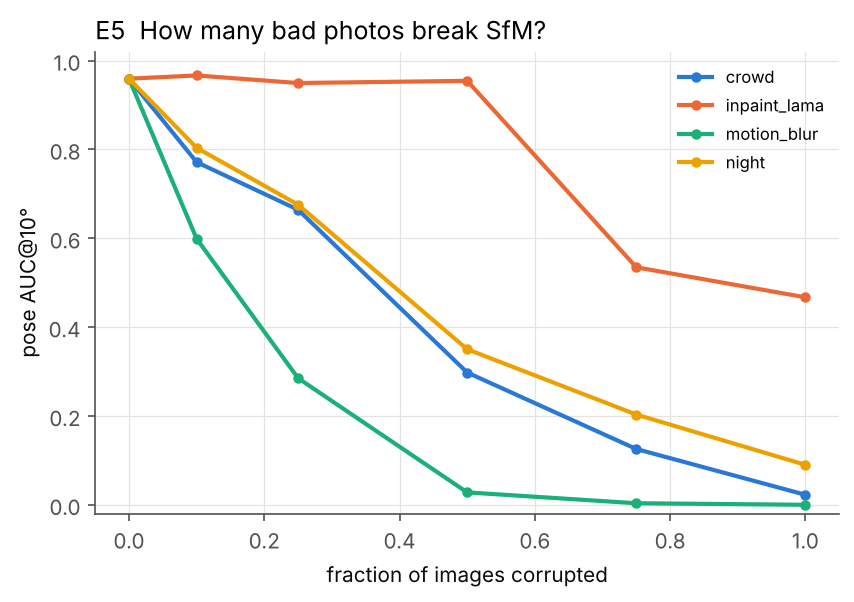
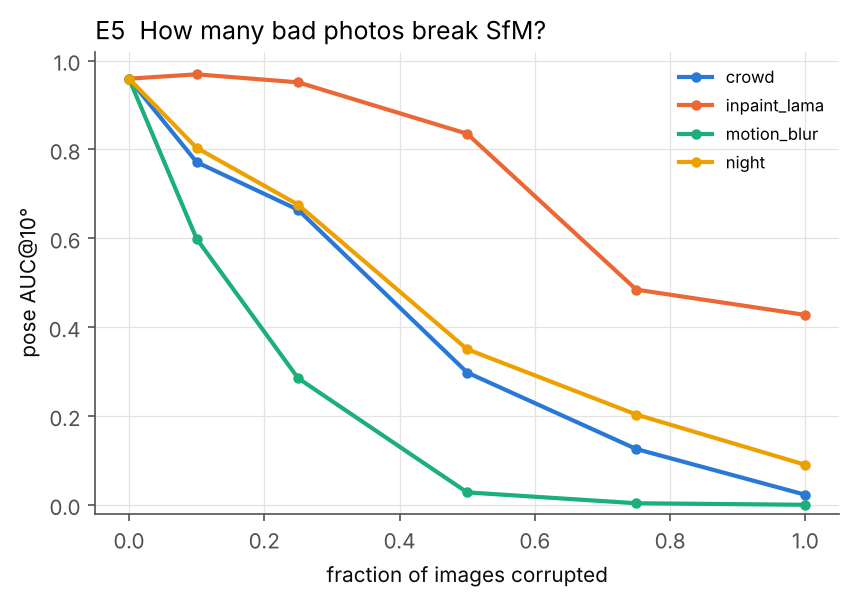
E5 LaMa contamination complete
Claude-Session: https://claude.ai/code/session_01DwFUuxyVwkhujN2CBgQS9g

diff --git a/results/summary.md b/results/summary.md
@@ -135,11 +135,11 @@ Metric: pose AUC@10° over all input image pairs (unregistered = failure) and re
 | crowd | 0.500 | 6 | 0.298 [0.16, 0.42] | 0.859 [0.73, 0.97] |
 | crowd | 0.750 | 6 | 0.126 [0.07, 0.18] | 0.934 [0.89, 0.97] |
 | crowd | 1.000 | 6 | 0.023 [0.01, 0.04] | 0.966 [0.91, 1.00] |
-| inpaint_lama | 0.100 | 5 | 0.966 [0.96, 0.97] | 1.000 [1.00, 1.00] |
-| inpaint_lama | 0.250 | 5 | 0.949 [0.91, 0.97] | 1.000 [1.00, 1.00] |
-| inpaint_lama | 0.500 | 5 | 0.954 [0.94, 0.97] | 1.000 [1.00, 1.00] |
-| inpaint_lama | 0.750 | 5 | 0.535 [0.35, 0.75] | 0.737 [0.60, 0.88] |
-| inpaint_lama | 1.000 | 5 | 0.467 [0.34, 0.57] | 0.698 [0.59, 0.78] |
+| inpaint_lama | 0.100 | 6 | 0.969 [0.96, 0.97] | 1.000 [1.00, 1.00] |
+| inpaint_lama | 0.250 | 6 | 0.951 [0.92, 0.97] | 1.000 [1.00, 1.00] |
+| inpaint_lama | 0.500 | 6 | 0.835 [0.59, 0.96] | 0.917 [0.75, 1.00] |
+| inpaint_lama | 0.750 | 6 | 0.484 [0.31, 0.69] | 0.698 [0.57, 0.83] |
+| inpaint_lama | 1.000 | 6 | 0.427 [0.32, 0.54] | 0.665 [0.57, 0.76] |
 | motion_blur | 0.100 | 6 | 0.599 [0.43, 0.73] | 0.829 [0.75, 0.90] |
 | motion_blur | 0.250 | 6 | 0.285 [0.13, 0.44] | 0.508 [0.34, 0.67] |
 | motion_blur | 0.500 | 6 | 0.028 [0.01, 0.06] | 0.162 [0.10, 0.23] |
